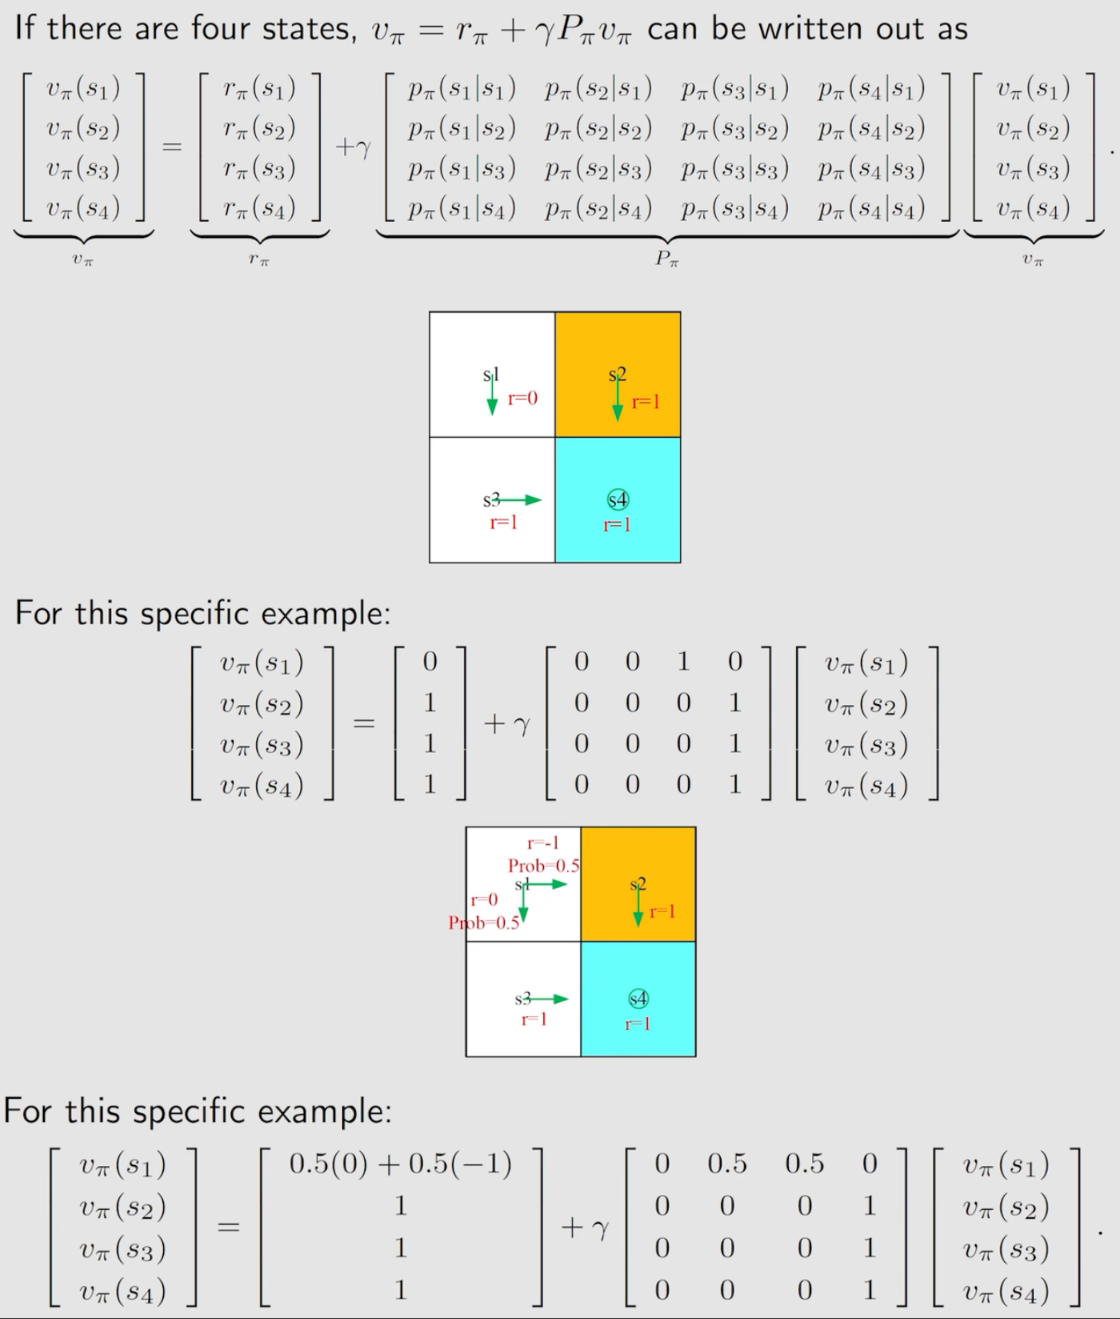
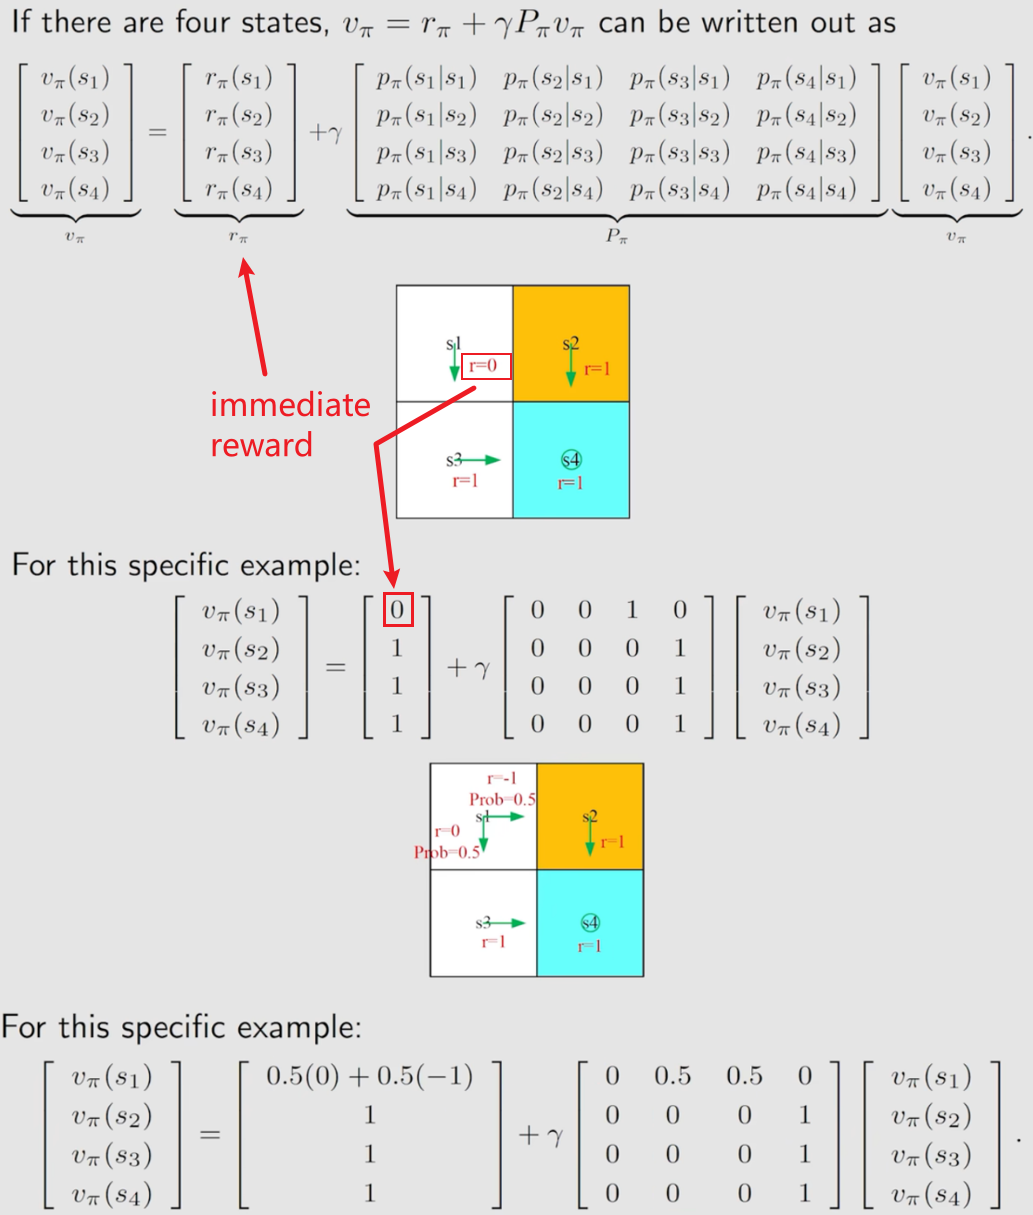
20260718-blog-强化学习入门v1-v1

diff --git a/_posts/2026-02-22-强化学习入门 v1.md b/_posts/2026-02-22-强化学习入门 v1.md
@@ -20,7 +20,7 @@ mathjax: true
 - [贝尔曼公式](#sec:bellman_equation)
 - [贝尔曼最优公式](#sec:bellman_optimal_equation)
 
---- 
+---
 ### 不定时更新...
 - [值迭代方法](#sec:)
 - [蒙特卡洛方法](#sec:)
@@ -46,7 +46,7 @@ mathjax: true
 | $ S=\lbrace s_i \rbrace_{i=1}^{N_{s}} $ |  | 状态空间/State Space |
 | $a$ |  | 动作/Action |
 | $ A(s_i)=\lbrace a_i \rbrace_{i=1}^{N_{a}} $ | 在状态 $s_i$ 下有 $N_a$ 个状态 | 状态 $s_i$ 的动作空间/Action Space of State |
-| $p(s_{next}\|s_{current}, a_i) \in [0, 1]$ | Agent 在当前状态, 采取动作 $a_i$ 会到状态 $s_{next}$ 的概率 | State transition probability |
+| $p(s_{next}\|s_{current}, a_i) \in [0, 1]$ | Agent 在当前状态, 采取动作 $a_i$ 会到状态 $s_{next}$ 的概率 | 状态转移概率/State transition probability |
 | $\pi(a_i\|s_{current}) \in [0, 1], \forall i \in [1, N_a]$ | Agent 在当前状态, 采取动作 $a_i$ 的概率 | 策略/Policy |
 | $p(r=?\|s_{current}, a_{current}) \in [0, 1]$ | Agent 选择一个动作之后得到的一个人为设定的实数 "?" 的概率 | 奖励/Reward |
 | $s_{t_1}\xrightarrow{a_{t_1}}\dots r_{t_{n-1}}, s_{t_n}\xrightarrow{a_{t_n}} r_{t_n}, s_{target}$ | Agent 实现目标的一系列 $\lbrace state, action \rbrace$ pair | 路径/尝试/Trajectory/trail/episode |
@@ -55,11 +55,9 @@ mathjax: true
 
 无记忆性/Memoryless property
 $$
-\begin{align}
 p(s_{t+1}|a_{t+1}, s_{t} \dots, a_1, s_0) = p(s_{t+1}|a_{t+1}, s_{t})
 \\
 p(r_{t+1}|a_{t+1}, s_{t} \dots, a_1, s_0) = p(r_{t+1}|a_{t+1}, s_{t})
-\end{align}
 $$
 
 <span id="sec:bellman_equation"></span>
@@ -67,14 +65,14 @@ $$
 ## 贝尔曼公式
 
 ### State Value Definition
-Discounted Return 能够反映出策略的 "好/坏". 给出 Trajectory: $S_{t}\xrightarrow{A_{t}}\dots R_{t+1}, S_{t+1}\xrightarrow{A_{t+2}} R_{t+3}, S_{t+3}\dots$, 首先可以计算得到其对应的 discounted return 为:
+Discounted Return 能够反映出策略的 "好/坏". 给出 Trajectory: $\textcolor{gray}{R_t,}S_{t}\xrightarrow{A_{t}} R_{t+1}, S_{t+1}\xrightarrow{A_{t+2}} R_{t+3}, S_{t+3}\dots$, 首先可以计算得到其对应的 discounted return 为:
 
 $$
 \begin{align}
-G_t=R_{t+1}+\gamma^2 R_{t+1}+\gamma^3 R_{t+1}+\dots,
+G_t=R_{t}+\gamma^2 R_{t+1}+\gamma^3 R_{t+2}+\dots,
 \end{align}
 $$
-其中, $S, A, R$ 均为随机变量 (所以大写). $t, \gamma\in[0, 1)$ 分别表示时间步和 discount rate. 不难知道, $G_t$ 也为随机变量. 在相同任务设置下且策略是确定性策略时, trajectory 也是确定性的. 此时有: discounted return 越小, 策略越优.
+其中, $S, A, R$ 均为随机变量 (所以大写). $t, \gamma\in[0, 1)$ 分别表示时间步和 discount rate. 不难知道, $G_t$ 也为随机变量. 在相同任务设置且策略是确定性策略时, trajectory 也是确定性的. 此时有: discounted return 越大, 策略越优.
 
 但是确定性策略应用范围有限, 更广泛使用的是随机性的策略, 即: 从状态 $s$ 出发, 有 $\pi(a_1\mid s)$ 概率采取行动 $a_1$; 有 $\pi(a_2\mid s)$ 概率采取行动 $a_2$. 此时自然对应着: 一个状态出发可能有多条 trajectory, 进而会得到多个 (discounted) return. 选取任一 trajectory 的 discounted return 描述当前状态的 "好/坏" 都有失公允, 因此定义 State Value:
 
@@ -83,7 +81,7 @@ $$
 v_{\pi}(s)=\mathbb{E}[G_t\mid S_t=s],
 \end{align}
 $$
-其中, $v_{\pi}(s)=v(s, \pi)$ 是一个关于 $s, \pi$ 的函数. 经过上述分析, 容易得到: **State value 越小, 策略越优.**
+其中, $v_{\pi}(s)=v(s, \pi)$ 是一个关于 $s, \pi$ 的函数. 经过上述分析, 同理得到: **State value 越大, 策略越优.**
 
 <div align="center">
 <img src="/images/blogs/强化学习入门/state_value_example.png" width="70%"/>
@@ -120,29 +118,30 @@ $$
 > &= \sum_a \pi(a\mid s) \sum_r p(r\mid s, a) r, \\
 > \end{align}
 > $$
-> 
+>
 > - 第一个等号是因为: 虽然状态 $s$ 固定, 但是要执行的动作 $A_t$ 是随机变量, 是 stochastic policy. 因此 $R_{t+1}$ 的期望还要固定下 $A_t=a$.
 > - 第二个等号是利用了期望算子的定义 $\mathbb{E}(X)=\sum_x p(x)\cdot x$.
-> 
+>
 > 这一项表示了 immediate reward 的平均值.
-> 
+>
 > #### 第二项
-> 
+>
 > $$
 > \begin{align}
 > \mathbb{E}[G_{t+1}\mid S_t=s]
 > &=\sum_{s'} p(s'\mid s)\cdot \mathbb{E}[G_{t+1}\mid S_t=s, S_{t+1}=s'] \\
 > &=\sum_{s'} p(s'\mid s)\cdot \mathbb{E}[G_{t+1}\mid S_{t+1}=s'] \\
 > &=\sum_{s'} p(s'\mid s)\cdot v_{\pi}(s') \\
+> &=\sum_{s'} \left(\sum_a p(s'\mid s, a) \pi(a\mid s) \right) v_{\pi}(s') \\
 > &=\sum_{s'} v_{\pi}(s') \sum_a p(s'\mid s, a) \pi(a\mid s), \\
 > \end{align}
 > $$
-> 
-> - 第一个等号是因为: 等号左边稍微 "错位", 因此引入 $t+1$ 时刻的 state $S_{t+1}$ 和 $G_{t+1}$ 相匹配
-> - 第一个等号是因为: 马尔科夫决策过程的 "无记忆性"
-> - 第三个等号利用了 state value 的定义
-> - 第四个等号是因为: agent 先移动后 (状态) 转移的客观以及全概率公式: $p(y) = \sum_x p(y\mid x) p(x)$
-> 
+>
+> - 第一个等号是因为: 等号左边稍微 "错位", 因此引入 $t+1$ 时刻的 state $S_{t+1}$ 和 $G_{t+1}$ 相匹配;
+> - 第一个等号是因为: 马尔科夫决策过程的 "无记忆性";
+> - 第三个等号利用了 state value 的定义;
+> - 第四个等号是因为: 全概率公式: $p(y) = \sum_x p(y\mid x) p(x)$;
+>
 > 这一项表示了 future reward 的平均值.
 
 
@@ -162,7 +161,7 @@ $$
 <img src="/images/blogs/强化学习入门/bellman_equation_example.png" width="70%">
 </div>
 
-也正是因为贝尔曼公式是 "一组" 的, 因此我们可以写成矩阵形式. 我们首先重写一下 element-wise form:
+也正是因为贝尔曼公式是 "一组" 的, 因此我们可以写成矩阵形式. 我们首先重写 element-wise form:
 
 $$
 \begin{align}
@@ -180,14 +179,13 @@ v_{\pi}(s_i) = r_{\pi}(s_i) + \gamma \sum_{s_j} v_{\pi}(s_j)p_\pi(s_j\mid s_i). 
 \end{align}
 $$
 
-最终可得:
-
+最终可得 matrix-form:
 $$
 \begin{align}
 v_{\pi} = r_{\pi} + \gamma P_\pi v_{\pi}, \\
 \end{align}
 $$
-其中, $v_{\pi} = \left[ v_{\pi}(s_1), \ldots, v_{\pi}(s_n) \right]^T \in \mathbb{R}^n$; $r_{\pi} = \left[ r_{\pi}(s_1), \ldots, r_{\pi}(s_n) \right]^{\top} \in \mathbb{R}^n$; $P_{\pi} \in \mathbb{R}^{n \times n}$, 其中 $[P_{\pi}]_{ij} = p_{\pi}(s_j \mid s_i)$ 是状态转移矩阵 (state transition matrix).
+其中, $v_{\pi} = \left[ v_{\pi}(s_1), \ldots, v_{\pi}(s_n) \right]^T \in \mathbb{R}^n$; $r_{\pi} = \left[ r_{\pi}(s_1), \ldots, r_{\pi}(s_n) \right]^{\top} \in \mathbb{R}^n$; $P_{\pi} \in \mathbb{R}^{n \times n}$, 其中 $\left[P_{\pi}\right]_{ij} = p_{\pi}(s_j \mid s_i)$ 是状态转移矩阵 (state transition matrix).
 
 <div align="center">
 <img src="/images/blogs/强化学习入门/bellman_equation_matrix_form_example.png" width="70%">
@@ -209,13 +207,13 @@ v_{k+1} = r_{\pi} + \gamma P_\pi v_{k}, \\
 \end{align}
 $$
 
-当迭代次数 $k\to \infty$, 有 $v_{k}\to (I-\gamma P_\pi)^{-1} r_{\pi}$ 成立. 具体证明过程见[第2课-贝尔曼公式（Part4-公式向量形式与求解）【强化学习的数学原理】](https://www.bilibili.com/video/BV1Le411K7qY/?share_source=copy_web&vd_source=ac12fe2091b2daa580a5d0f15ba5d822).
+当迭代次数 $k\to \infty$, 有 $v_{k}\to (I-\gamma P_\pi)^{-1} r_{\pi}$ 成立. 具体证明过程见[【强化学习的数学原理】课程的 10:13 处](https://www.bilibili.com/video/BV1Le411K7qY/?share_source=copy_web&vd_source=ac12fe2091b2daa580a5d0f15ba5d822).
 
 ### Action Value Definition
 
 现在我们手头上有了一件称心如意的工具: 贝尔曼公式, 其能够帮助我们评估状态 $s$ 的价值. 然而, 只评估出状态的价值并不能够帮助我们去改进策略. 而策略又和每个状态所选取的动作紧密相关, 因此我们需要知道在每个状态下的每个动作的价值. 因此引出了该小节的内容—— Action Value.
 
-> 举个例子, 我们知道学习工作达到心流状态的 "价值" 很高; 但是达到心流状态有多种动作可供选择: 冥想, 听纯音乐, 拉伸等. 我们应该选择哪些动作呢? 如果能评估出, "冥想" 有 1 分; "听纯音乐" 有 2 分; "拉伸" 有 3 分. 我们就可以根据动作来修正策略.
+> 举个例子, 我们知道学习工作达到心流状态的 "价值" 很高; 但是达到心流状态有多种动作可供选择: 冥想, 听纯音乐, 拉伸等. 我们应该选择哪些动作呢? 如果能评估出, "冥想" 有 1 分; "听纯音乐" 有 2 分; "拉伸" 有 3 分. 我们就可以根据动作来修正策略——即：优先级为：拉伸 $>$ 听音乐 $>$ 冥想.
 
 定义 Action Value
 
@@ -225,11 +223,11 @@ q_{\pi}(s, a)=\mathbb{E}[G_t\mid S_t=s, A_t=a].
 \end{align}
 $$
 
-从朴素直觉出发, 有: 状态价值是所有可能动作价值的加权平均, 也就是: 状态的价值 = 动作的价值 $\times$ 选择该动作的概率. 从 value/action value 的定义出发, 我们注意到朴素直觉的正确性:
+从朴素直觉出发, 有: state value 是所有可能的 action value 的加权平均, 也就是:
 
 $$
 \begin{align}
-v_{\pi}(s) = \sum_a \pi(a\mid s) q_{\pi}(s, a).
+\underbrace{\mathbb{E}[G_t\mid S_t=s]}_{\textcolor{red}{v_{\pi}(s)}} = \sum_a \underbrace{\mathbb{E}\left[G_t \mid S_t=s, A_t=a\right]}_{\textcolor{red}{q_{\pi}(s, a)}} \pi(a\mid s).
 \end{align}
 $$
 
@@ -237,27 +235,27 @@ $$
 
 $$
 \begin{align}
-q_{\pi}(s, a) = \sum_r p(r\mid s, a) r + \gamma \sum_{s'} v_{\pi}(s') p(s'\mid s, a).
+\textcolor{red}{q_{\pi}(s, a)} = \sum_r p(r\mid s, a) r + \gamma \sum_{s'} \textcolor{red}{v_{\pi}(s')} p(s'\mid s, a).
 \end{align}
 $$
 
-上述两个式子刻画了 state/action value 二者之间的关联. 
+上述两个式子均刻画了 state value $\textcolor{red}{v_{\pi}(s)}$ 和 action value $\textcolor{red}{q_{\pi}(s, a)}$ 二者之间的关联. 
 
-现在我们在知道 state value 的基础上, 可以进一步计算得到 action value; 这能够有效的帮助我们在状态 $s$ 下找到最佳的动作 $a^*$. 形式化表达为: $a^* = \arg \max_a q_{\pi}(s,a)$. 此时, 策略可以进行更新:
+现在我们在知道 state value 的基础上, 可以进一步计算得到 action value; 这能够有效地帮助我们在状态 $s$ 下找到最佳的动作 $a^\star$. 形式化表达为: $a^\star = \arg \max_a q_{\pi}(s,a)$. 此时, 策略可以进行更新:
 
 $$
 \begin{align}
 \pi(a\mid s) = 
 \begin{cases}
-1 \ a=a^* \\
-0 \ a\neq a^* \\
+1 \ a=a^\star \\
+0 \ a\neq a^\star \\
 \end{cases}
 \end{align}
 $$
 
-现在我们已经大致了解策略更新的大致方式, 但是更新过程中, 是逐渐逼近最优策略? 还是一步到位? 状态 $s$ 处的更新是否依赖其他状态的策略已经达到最优呢?
+现在我们已经了解策略更新的大致方式, 但是更新过程中, 是逐渐逼近最优策略? 还是一步到位? 状态 $s$ 处的更新是否依赖其他状态的策略已经达到最优呢?
 
-对上述问题的解答需要依赖于数学, 具体来说则是依赖接下来要讲的: 贝尔曼最优公式.
+对上述问题的解答需要依赖于数学, 具体来说，是依赖接下来要讲的: 贝尔曼最优公式.
 
 <span id="sec:bellman_optimal_equation"></span>
 
@@ -270,7 +268,7 @@ $$
 
 $$
 \begin{align}
-v_{\pi^*}(s)\geq v_{\pi}(s), \forall s\in S, \forall \pi. 
+v_{\pi^*}(s)\geq v_{\pi}(s), \forall s\in S, \pi. 
 \end{align}
 $$
 
@@ -280,7 +278,7 @@ $$
 
 ### 贝尔曼最优公式 (BOE)
 
-接下来我们直接给出 BOE. 顾名思义, BOE 和贝尔曼公式 (BE) 有千丝万缕的关联. 其也可以写成两种形式如下, 分别是 element-wise/matrix-vector form.
+接下来我们直接给出 BOE. 顾名思义, BOE 和贝尔曼公式 (BE) 有千丝万缕的关联. 其也可以写成两种形式如下, 分别是 element-wise 和 matrix-vector form.
 $$
 \begin{align}
 v(s)
@@ -294,35 +292,38 @@ $$
 
 $$
 \begin{aligned}
-[r_{\pi}]_{s} &\triangleq \sum_{a} \pi(a \mid s) \sum_{r} p(r \mid s, a) \, r, \\
-[P_{\pi}]_{s, s'} &= p(s' \mid s) \triangleq \sum_{a} \pi(a \mid s) \sum_{s'} p(s' \mid s, a).
+\left[r_{\pi}\right]_{s} &\triangleq \sum_{a} \pi(a \mid s) \sum_{r} p(r \mid s, a) \, r, \\
+\left[P_{\pi}\right]_{s, s'} &= p(s' \mid s) \triangleq \sum_{a} \pi(a \mid s) \sum_{s'} p(s' \mid s, a).
 \end{aligned}
 $$
 
-不难发现, BOE 和 BE 其实就差了个 $\max_\pi$ 操作. 需要注意的是, 其是针对每个元素. 形式化表达: $\max_\pi (BE_1, \dots, BE_n)^{\top}=(\max_\pi BE_1, \dots, \max_\pi BE_n)^{\top}$.
+不难发现, BOE 和 BE 其实就差了个$\textcolor{red}{针对每个元素的 \max_\pi}$ 操作. 形式化表达: $\max_\pi (BE_1, \dots, BE_n)^{\top}=(\max_\pi BE_1, \dots, \max_\pi BE_n)^{\top}$.
 
 怎么求解 BOE 呢? 
-- 我们首先给 $v(s')$ 赋以初始值; 又因为 $p(r\mid s, a), r, \gamma, p(s'\mid s, a)$ 均已知, $q(s,a)$ 已知. 因此 BOE 的 objective function 此时就仅有 $\pi(a\mid s)$ 是未知量.
+- 我们首先给 $v(s')$ 赋以初始值; 又因为 $p(r\mid s, a), r, \gamma, p(s'\mid s, a)$ 均已知, 因此有 $q(s,a)$ 已知. 此时 BOE 的 objective function 仅有 $\pi(a\mid s)$ 是未知量.
 - 由于一个状态具有多个动作 $a$, 因此对应的 $q(s, a)$ 也是有多个. 如何求解 $\max_\pi \sum_a \pi(a\mid s) q(s,a)$ 呢? 参照下图所示的例子进行求解可得:
 
 $$
 \begin{aligned}
-&\max_\pi \sum_a \pi(a\mid s) q(s,a)=\max_{a\in A(s)} q(s,a)
+&\max_\pi \sum_a \pi(a\mid s) q(s,a)=\max_{a\in A(s)} \left(q(s,a)\right)
 \\
 &\text{where }
 \pi(a\mid s)= 
 \begin{cases}
-1 \ a= a^* \\
-0 \ a\neq a^* \\
+1 \ a= a^\star \\
+0 \ a\neq a^\star \\
 \end{cases}
 \text{and }
-a^*=\arg \max_a q_{\pi}(s,a).
+a^\star=\arg \max_a q_{\pi}(s,a).
 \end{aligned}
 $$
 
 <div align="center">
 <img src="/images/blogs/强化学习入门/calculating_example.png" alt="计算示例" width="70%"/>
 </div>
+
+
+
 
 - 由前面两个步骤可得, $\max_\pi (r_{\pi} + \gamma P_{\pi} v)$ 的求解过程是先给定 (固定) $v$ 然后求出对应的 $\pi$. 因此我们不妨定义 $f(v)\triangleq \max_\pi (r_{\pi} + \gamma P_{\pi} v)$. 所以  BOE 可以简化为:
 $$